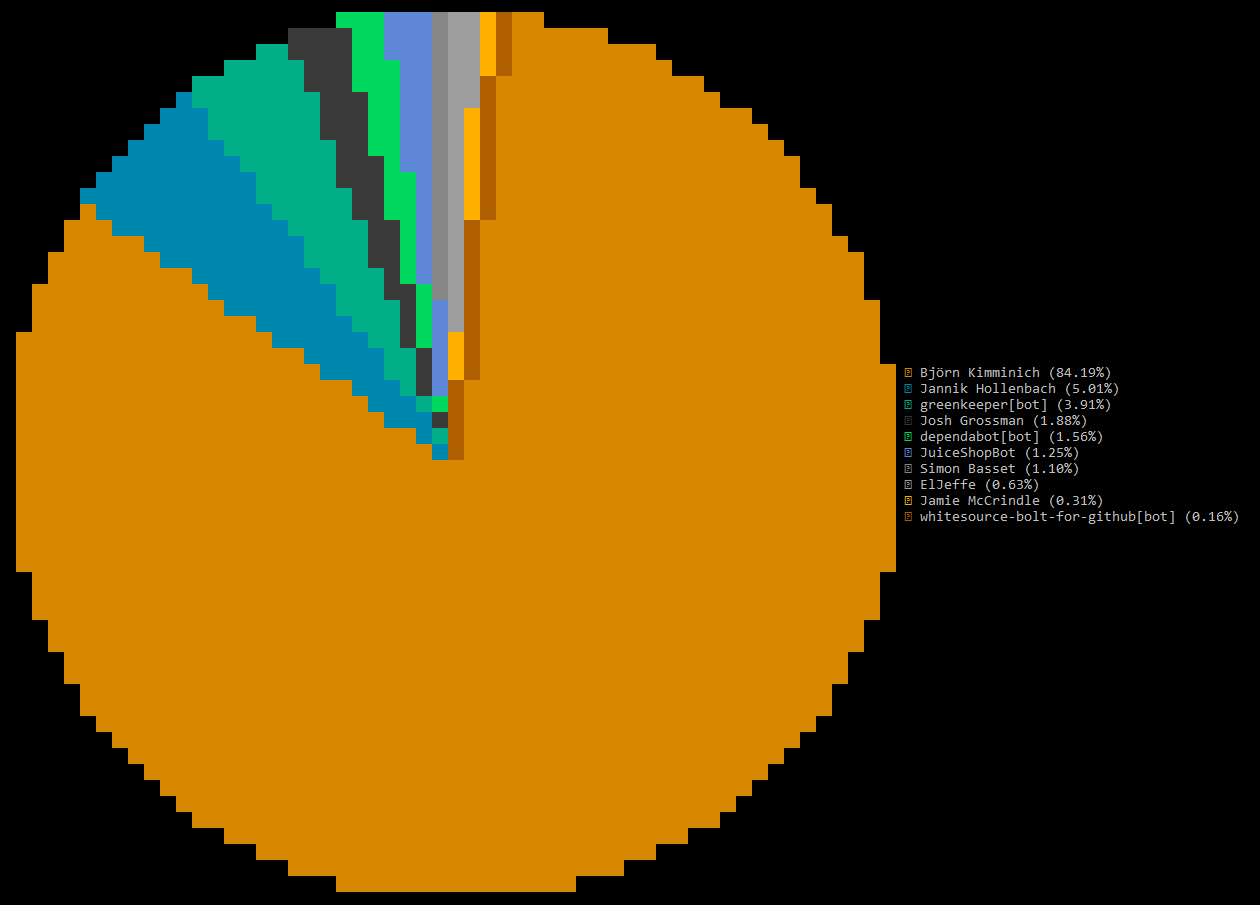
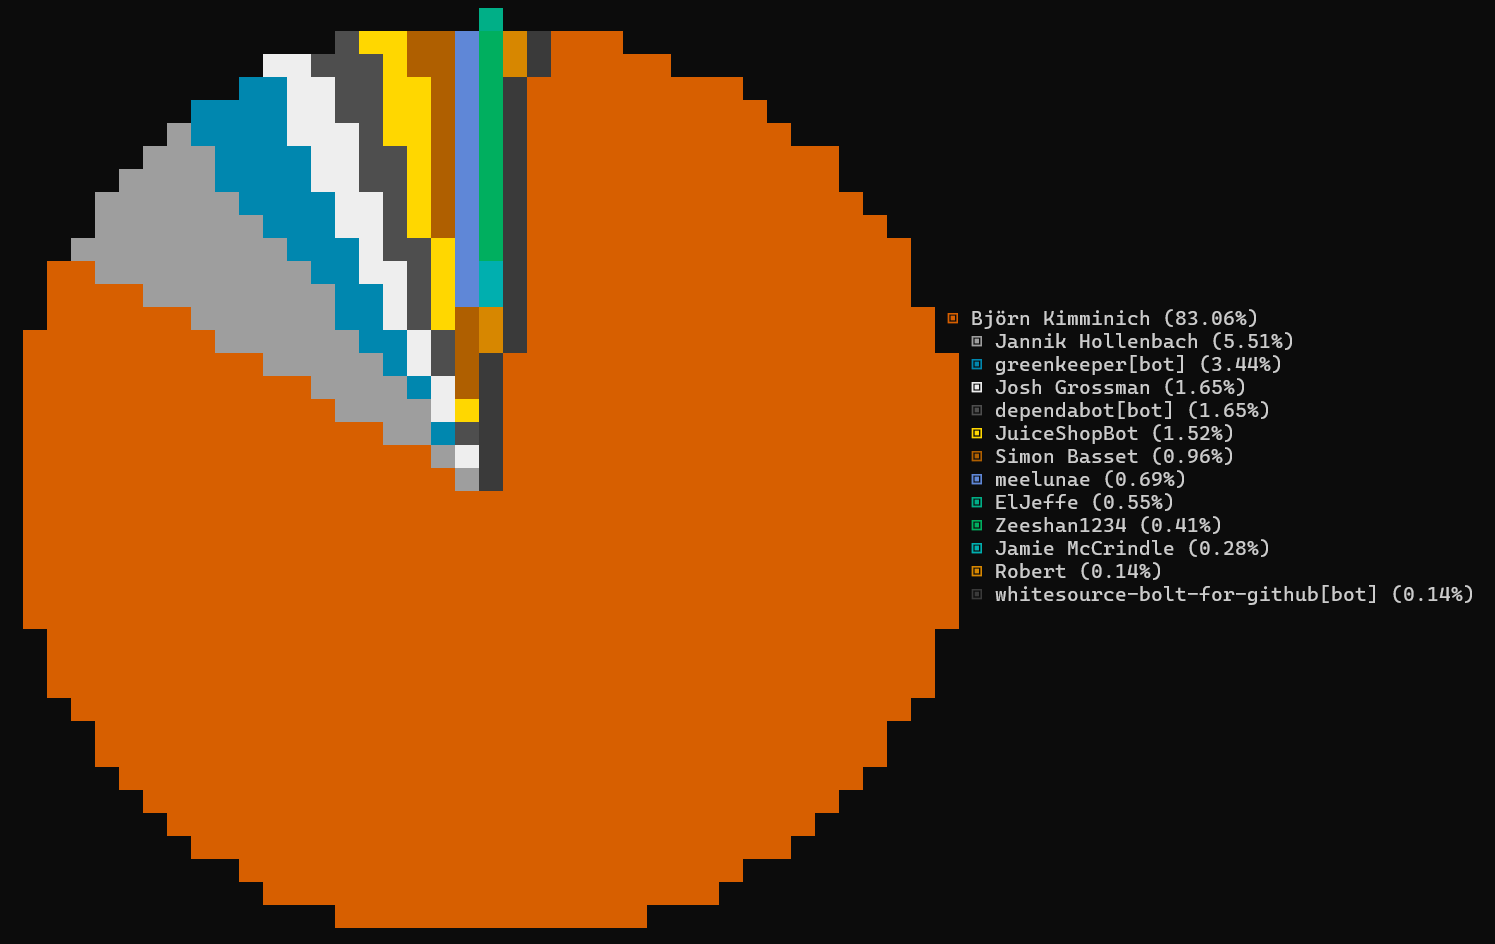
Update Github contributor stats

diff --git a/HALL_OF_FAME.md b/HALL_OF_FAME.md
@@ -3,7 +3,7 @@
 ## GitHub Contributors
 
 As reported by [`git-stats -a -s '2016'`](https://www.npmjs.com/package/git-stats) analysis
-of `master` as of Tue, 5 Oct 2021 after deduplication with `.mailmap`.
+of `master` as of Thi, 30 Jan 2025 after deduplication with `.mailmap`.
 
 ![Top git contributors](images/git-stats.png)
 
